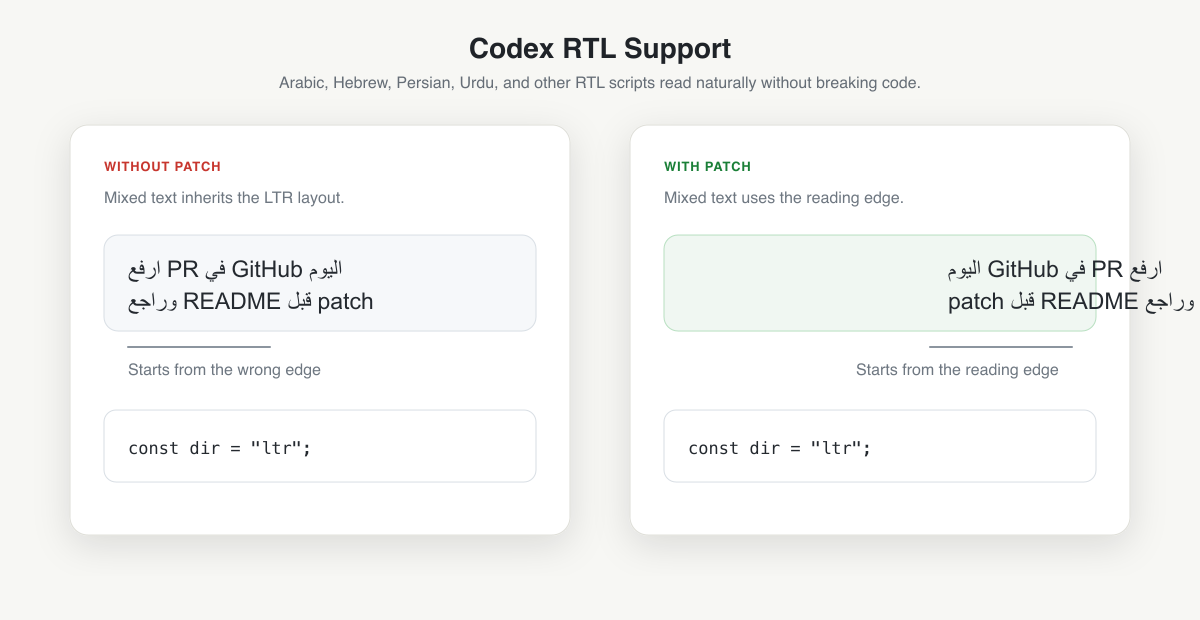
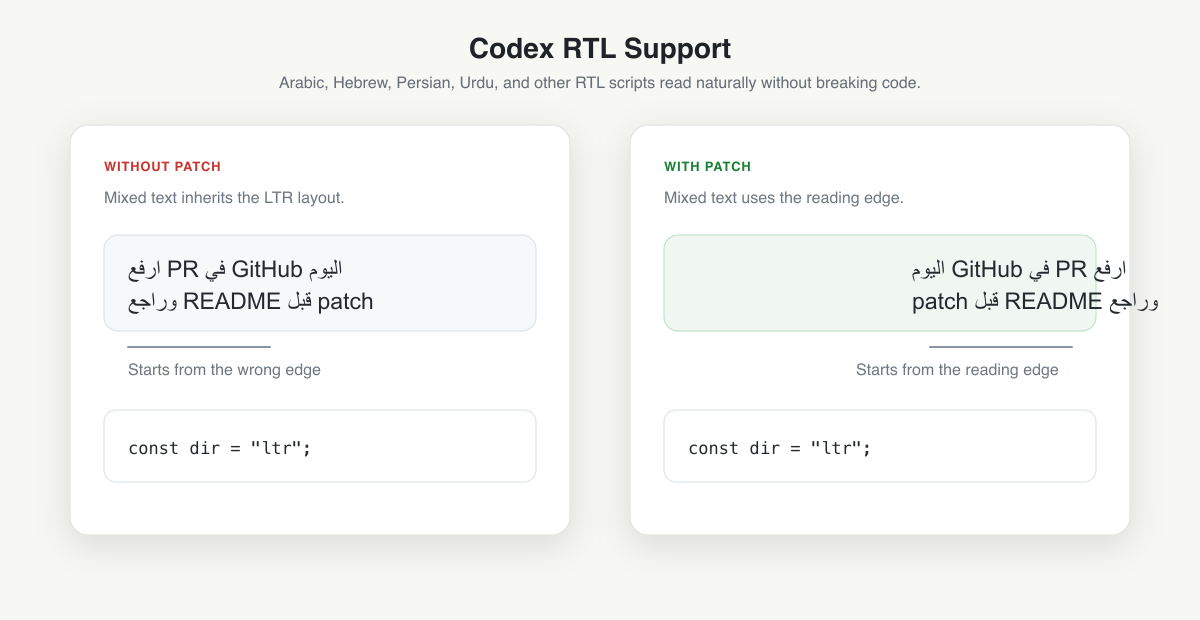
Add auto-reapply launch agent

Changed region(s): [[0.7708, 0.3984, 0.9867, 0.521]]

diff --git a/README.md b/README.md
@@ -28,6 +28,8 @@ npm run patch
 
 Quit Codex before installing. Reopen it after the installer finishes.
 
+This patch does not add a separate app to launch. Once installed, open Codex normally.
+
 If macOS blocks writes to `/Applications/Codex.app`, run:
 
 ```bash
@@ -37,6 +39,22 @@ sudo env "PATH=$PATH" npm run patch
 If it is still blocked, enable Terminal in:
 
 System Settings -> Privacy & Security -> App Management
+
+## Keep It Applied
+
+Codex updates can replace `app.asar`. To let macOS re-check the app and reapply the patch when Codex is closed, install the LaunchAgent:
+
+```bash
+npm run keep
+```
+
+The agent runs on login, when `app.asar` changes, and every 15 minutes. It skips while Codex is open.
+
+Remove it with:
+
+```bash
+npm run unkeep
+```
 
 ## Uninstall
 
@@ -54,7 +72,7 @@ npm test
 npm run dry-run
 ```
 
-Codex updates replace `app.asar`, so run `npm run patch` again after updating the app.
+If `npm run status` says `Installed: no`, quit Codex and run `npm run patch`, or use `npm run keep` to reapply it automatically after the app is closed.
 
 ## How It Works
 